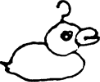
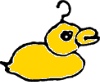
add colours and game over text

Changed region(s): [[0.09, 0.5366, 0.84, 0.9756], [0.45, 0.2927, 0.96, 0.6585]]

diff --git a/hog-fishing/index.php b/hog-fishing/index.php
@@ -15,6 +15,15 @@ include '../lib/generic_content.php';
 }
 body {
 	overflow: hidden;
+    font-family: Arial;
+}
+.big-note {
+    display: flex;
+    align-items: center;
+    justify-content: center;
+    height: 100%;
+    text-align: center;
+    font-size: 2rem;
 }
 #game-container {
 	position: relative;
@@ -23,6 +32,7 @@ body {
 	margin: 50px auto;
 	border: 2px solid black;
     overflow: hidden;
+    background-color: #EDF3F9;
 }
 #fish-container {
     height: 100vh;
@@ -37,12 +47,13 @@ body {
 #fish-caught {
     position: relative;
     color: green;
-    font-size: 20px;
+    font-size: 2rem;
     z-index: 2;
+    margin: 1rem;
 }
 .fish {
     position: absolute;
-    transition: left var(--fast-transition), top var(--slow-transition);
+    transition: left var(--fast-transition), top var(--slow-transition), filter var(--slow-transition);
     background-image: url('images/hog-fishing/duck.png');
     background-size: contain;
     width: 35px;
@@ -50,10 +61,12 @@ body {
     box-sizing: border-box;
     padding: 14px;
 }
+.fish:not(.caught){
+    filter: saturate(0.99);
+}
 .caught {
-    color: red;
     top: 0 !important;
-    filter: opacity(0.5);
+    filter: saturate(0.25);
 }
 </style>
 </head>
@@ -63,12 +76,13 @@ body {
     <img id='fishing-rod' src='images/hog-fishing/rod-wire.png'/>
     <div id='fish-container'></div>
 	</div>
+    <div class='neh-hogwild-footer' style='width: fit-content; margin: 2rem auto; font-family: Arial'>A <a class='button-as-link' href='https://hogwild.uk'>hogwild.uk</a> creation</div>
 </body>
 
 <script type='module'>
 // Customisable globals      
 var framerate = 15;
-var max_tick = 1000;
+var max_tick = 500;
 var average_fish_speed = 5;
 var position_hitbox = 15;
 var height_hitbox = 25;
@@ -189,7 +203,15 @@ function createFishElement(id){
     img.setAttribute('id', 'fish-' + id);
     img.classList.add('fish');
     img.style.top = (Math.floor(Math.random() * 250) + 50) + 'px';
+    //img.style.filter = 'brightness(' + Math.floor((Math.random() + 0.75) * 100) + '%)'; // 0.5 to 1.5
     document.getElementById('fish-container').appendChild(img);
+}
+function showGameOver(){
+    const text = document.createElement('p');
+    text.innerHTML = 'GAME OVER<br>You won ' + fish_caught + ' points';
+    text.classList.add('big-note');
+    document.getElementById('game-container').innerHTML = '';
+    document.getElementById('game-container').appendChild(text);
 }
 
 // User input processing
@@ -212,6 +234,9 @@ function beginTick(){
     for (let tick=0; tick<max_tick; tick++){
         tickFish(tick);
     }
+    setTimeout(function(){
+        showGameOver();
+    }, delay_per_tick * (max_tick + 1)); // Show after the last game tick
 }
 
 // Track mouse position
